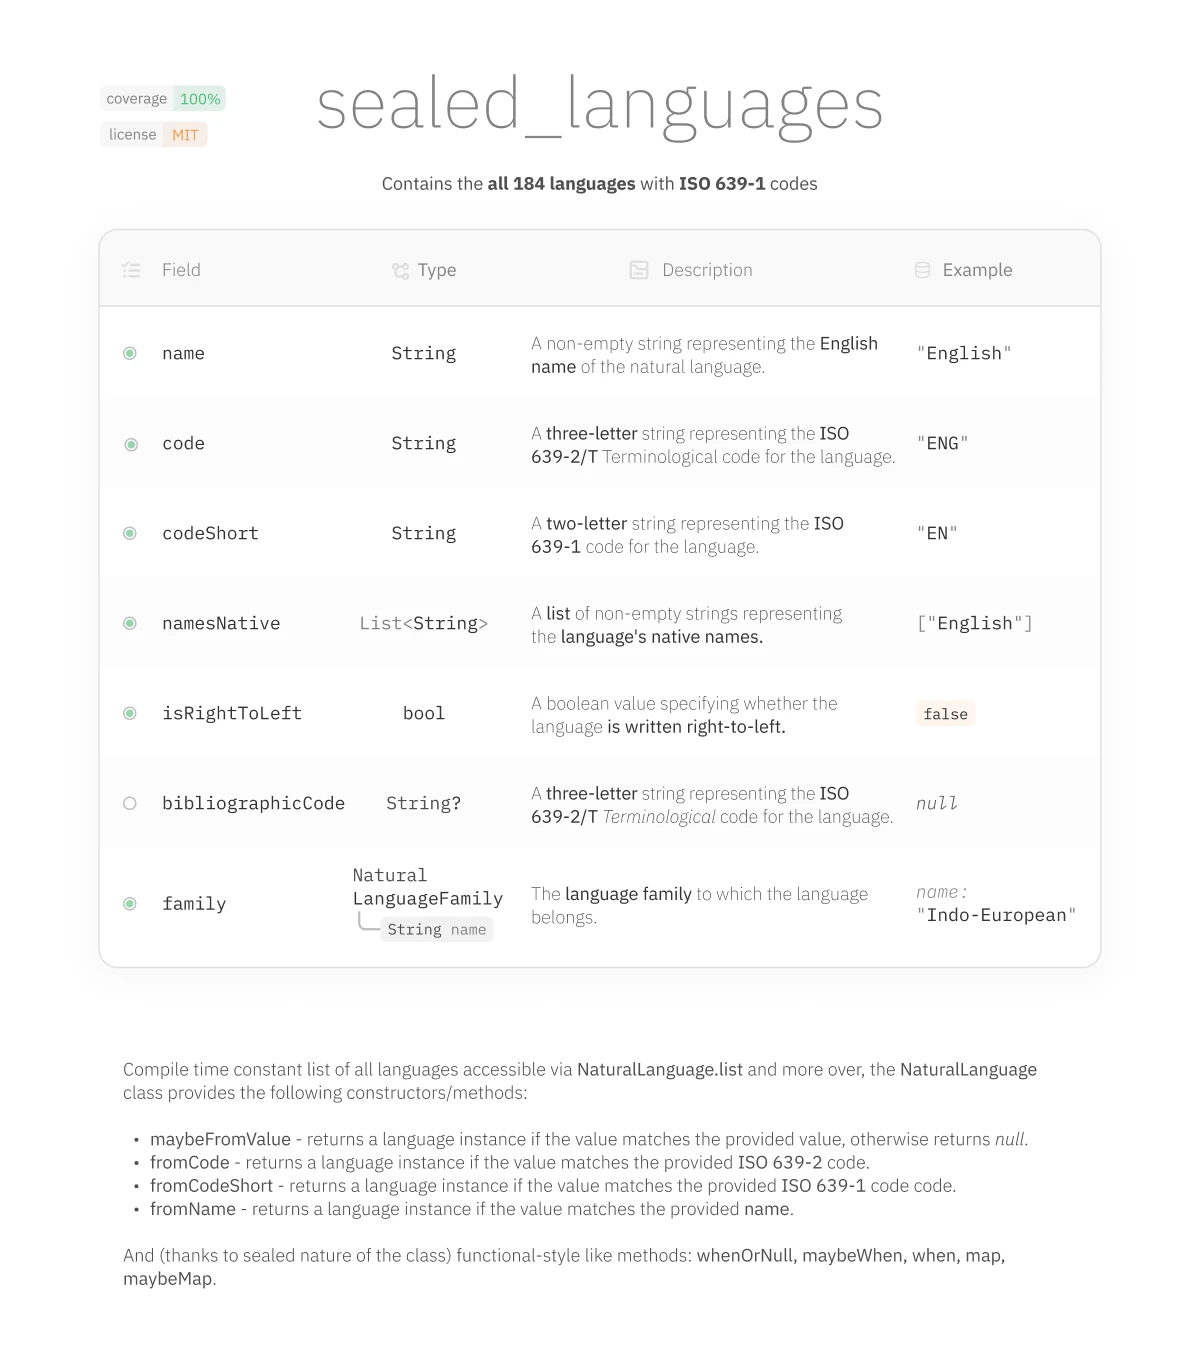
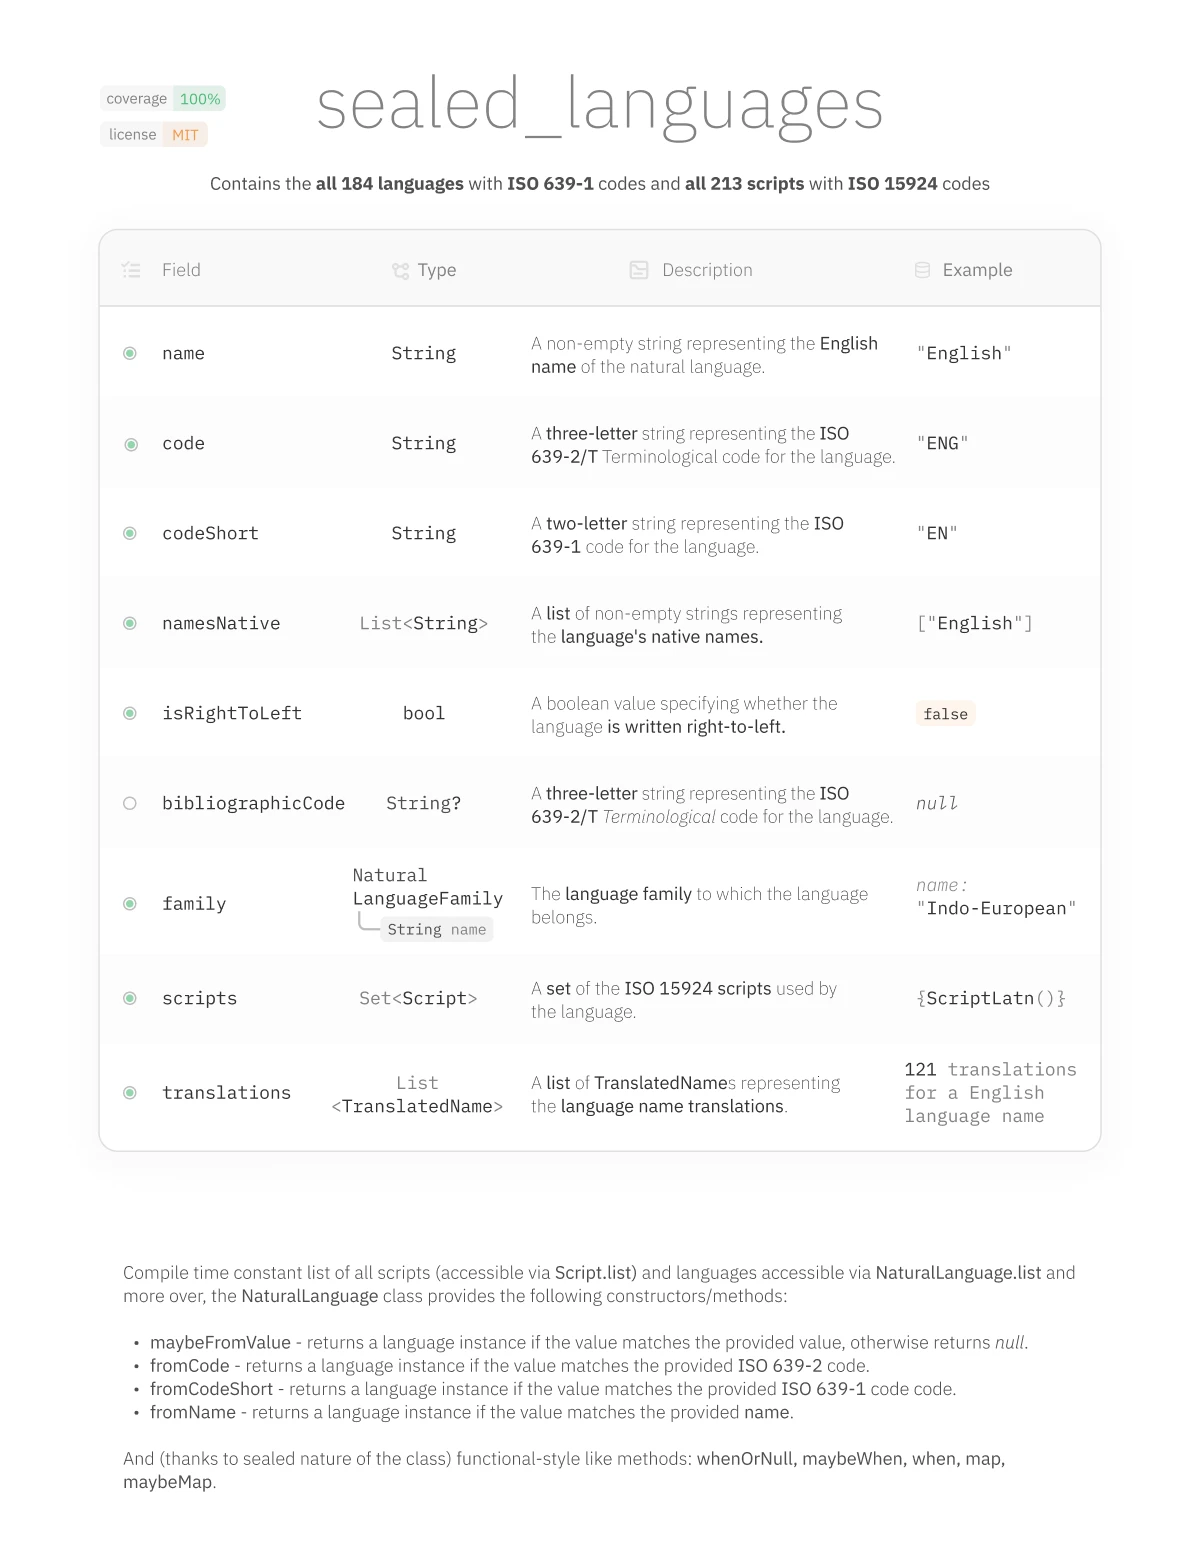
docs: update languages structure screenshot (#70)
* docs: update structure screenshot

* feat: added material supported languages sealed constant

* feat: added iso standardized string extension

* test: tests for iso standardized string extension

diff --git a/packages/sealed_languages/lib/language_translations.dart b/packages/sealed_languages/lib/language_translations.dart
@@ -192,6 +192,8 @@ export "src/translations/zha_language.l10n.dart";
 export "src/translations/zho_language.l10n.dart";
 export "src/translations/zul_language.l10n.dart";
 
+// ignore_for_file: prefer-static-class
+
 /// This is a comprehensive list of languages that ensure the availability of
 /// translations for every language in the natural language list.
 ///
@@ -202,7 +204,6 @@ export "src/translations/zul_language.l10n.dart";
 /// than 56 translations of it's name to other languages.
 ///
 /// This a small (as for now) brother of [kMaterialSupportedLanguages](https://api.flutter.dev/flutter/flutter_localizations/kMaterialSupportedLanguages.html).
-// ignore: prefer-static-class, to follow the naming convention of Flutter's SDK.
 const kSealedLanguagesSupportedLanguages = [
   LangPor(),
   LangPol(),
@@ -259,4 +260,90 @@ const kSealedLanguagesSupportedLanguages = [
   LangAra(),
   LangZho(),
   LangLao(),
+];
+
+/// Sealed languages version of the `kMaterialSupportedLanguages` list.
+///
+/// Implementation of localized strings for the material widgets using
+/// the `intl` package for date and time formatting.
+/// Missing "FIL" (Filipino Pilipino) + "GSW" (Swiss German Alemannic Alsatian)
+/// languages.
+const kMaterialSupportedLanguagesSealed = [
+  LangAfr(),
+  LangAmh(),
+  LangAra(),
+  LangAsm(),
+  LangAze(),
+  LangBel(),
+  LangBul(),
+  LangBen(),
+  LangBos(),
+  LangCat(),
+  LangCes(),
+  LangCym(),
+  LangDan(),
+  LangDeu(),
+  LangEll(),
+  LangEng(),
+  LangSpa(),
+  LangEst(),
+  LangEus(),
+  LangFas(),
+  LangFin(),
+  LangFra(),
+  LangGlg(),
+  LangGuj(),
+  LangHeb(),
+  LangHin(),
+  LangHrv(),
+  LangHun(),
+  LangHye(),
+  LangInd(),
+  LangIsl(),
+  LangIta(),
+  LangJpn(),
+  LangKat(),
+  LangKaz(),
+  LangKhm(),
+  LangKan(),
+  LangKor(),
+  LangKir(),
+  LangLao(),
+  LangLit(),
+  LangLav(),
+  LangMkd(),
+  LangMal(),
+  LangMon(),
+  LangMar(),
+  LangMsa(),
+  LangMya(),
+  LangNob(),
+  LangNep(),
+  LangNld(),
+  LangNor(),
+  LangOri(),
+  LangPan(),
+  LangPol(),
+  LangPus(),
+  LangPor(),
+  LangRon(),
+  LangRus(),
+  LangSin(),
+  LangSlk(),
+  LangSlv(),
+  LangSqi(),
+  LangSrp(),
+  LangSwe(),
+  LangSwa(),
+  LangTam(),
+  LangTel(),
+  LangTha(),
+  LangTgl(),
+  LangTur(),
+  LangUkr(),
+  LangUrd(),
+  LangUzb(),
+  LangVie(),
+  LangZho(),
+  LangZul(),
 ];

diff --git a/packages/sealed_languages/test/src/helpers/extensions/iso_standardized_string_extension_test.dart b/packages/sealed_languages/test/src/helpers/extensions/iso_standardized_string_extension_test.dart
@@ -1,0 +1,23 @@
+import "package:sealed_languages/sealed_languages.dart";
+import "package:test/test.dart";
+
+void main() => group("IsoStandardizedStringExtension", () {
+      group("isIsoCode", () {
+        test("should return true for valid ISO codes", () {
+          expect("ENG".isIsoCode, isTrue);
+          expect("Latn".isIsoCode, isTrue);
+          expect("abc".isIsoCode, isTrue);
+          expect("xyz".isIsoCode, isTrue);
+          expect("AbC".isIsoCode, isTrue);
+        });
+
+        test("should return false for invalid ISO codes", () {
+          expect("A".isIsoCode, isFalse);
+          expect("AB".isIsoCode, isFalse);
+          expect("123".isIsoCode, isFalse);
+          expect("AB3".isIsoCode, isFalse);
+          expect("abc123".isIsoCode, isFalse);
+          expect("!@#".isIsoCode, isFalse);
+        });
+      });
+    });

diff --git a/packages/sealed_languages/lib/src/helpers/extensions/iso_standardized_string_extension.dart b/packages/sealed_languages/lib/src/helpers/extensions/iso_standardized_string_extension.dart
@@ -1,0 +1,14 @@
+/// Extension on [String] providing additional functionality
+/// for ISO standardized strings.
+extension IsoStandardizedStringExtension on String {
+  /// Checks if the string is a valid ISO code.
+  ///
+  /// Returns `true` if the string matches strings that consist of Latin
+  /// characters (uppercase or lowercase) and have a length of 3 or more
+  /// characters, indicating that it is a valid ISO code.
+  /// Returns `false` otherwise.
+  ///
+  /// In terms of this package, it means that it is a valid
+  /// ISO `code` (not `codeOther`).
+  bool get isIsoCode => RegExp(r"^[a-zA-Z]{3,}$").hasMatch(this);
+}

diff --git a/packages/sealed_languages/lib/sealed_languages.dart b/packages/sealed_languages/lib/sealed_languages.dart
@@ -4,6 +4,7 @@ library sealed_languages;
 export "src/data/natural_language_families.data.dart";
 export "src/data/natural_languages.data.dart";
 export "src/data/scripts.data.dart";
+export "src/helpers/extensions/iso_standardized_string_extension.dart";
 export "src/helpers/extensions/sealed_world_iterable_extension.dart";
 export "src/helpers/extensions/sealed_world_json_string_extension.dart";
 export "src/helpers/extensions/translated_extension.dart";
